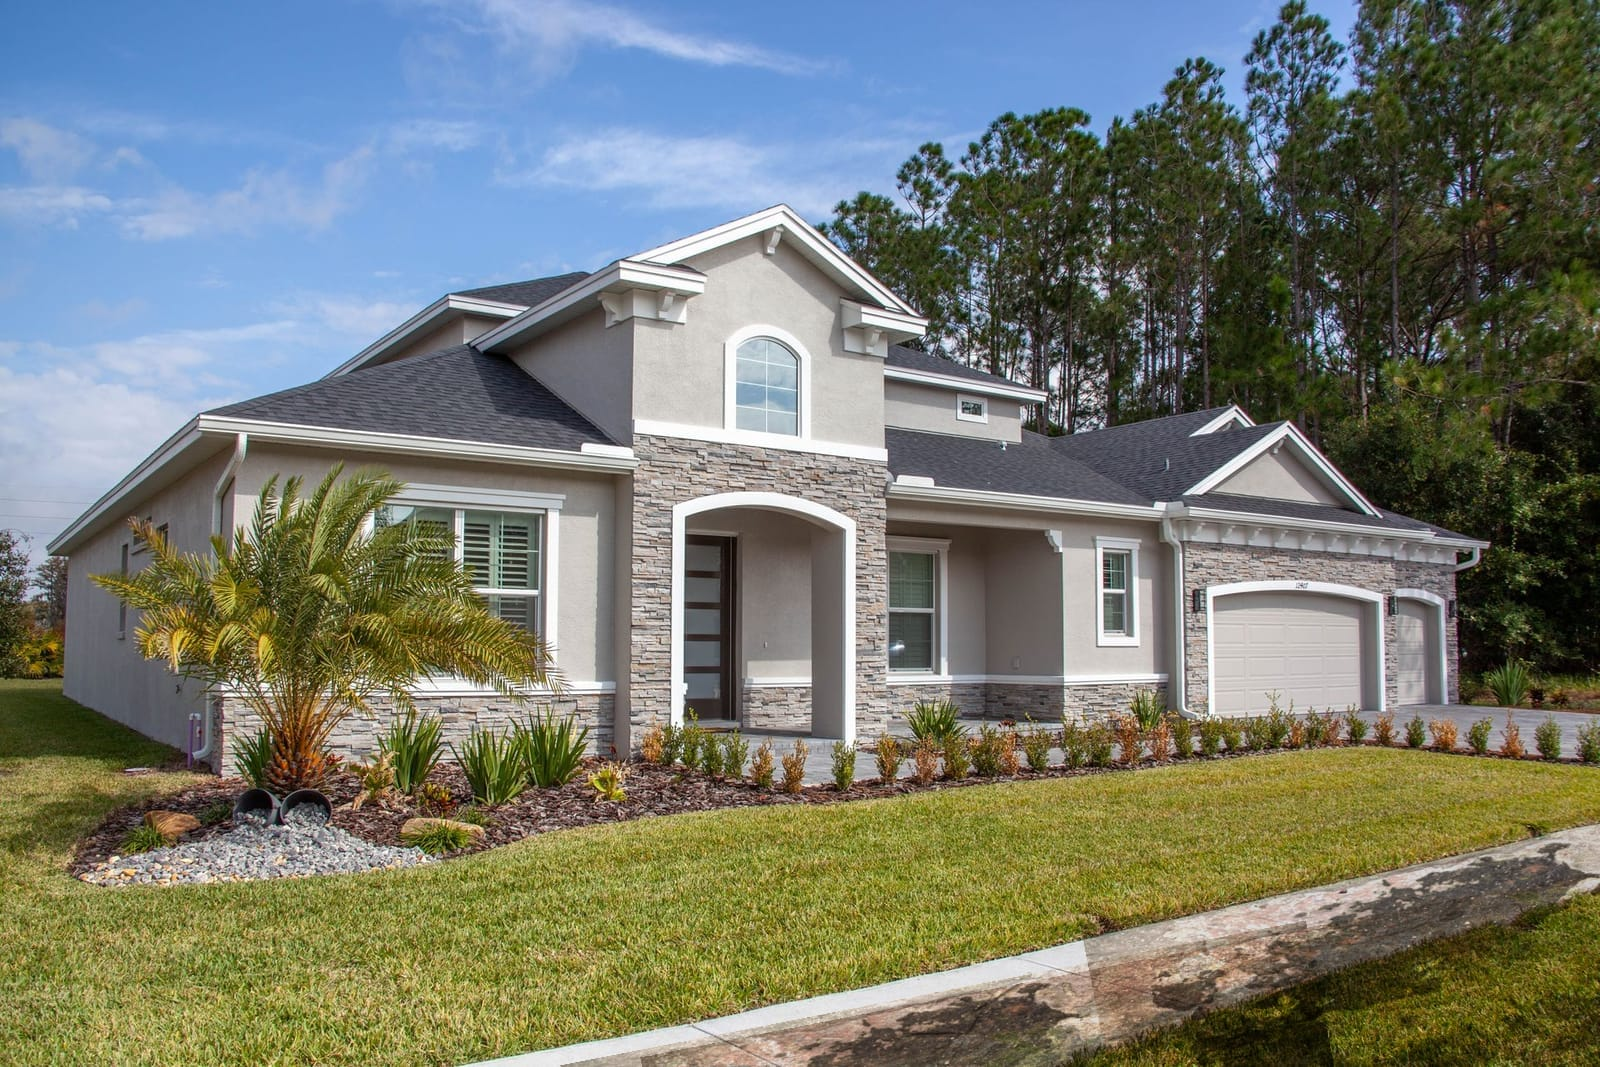
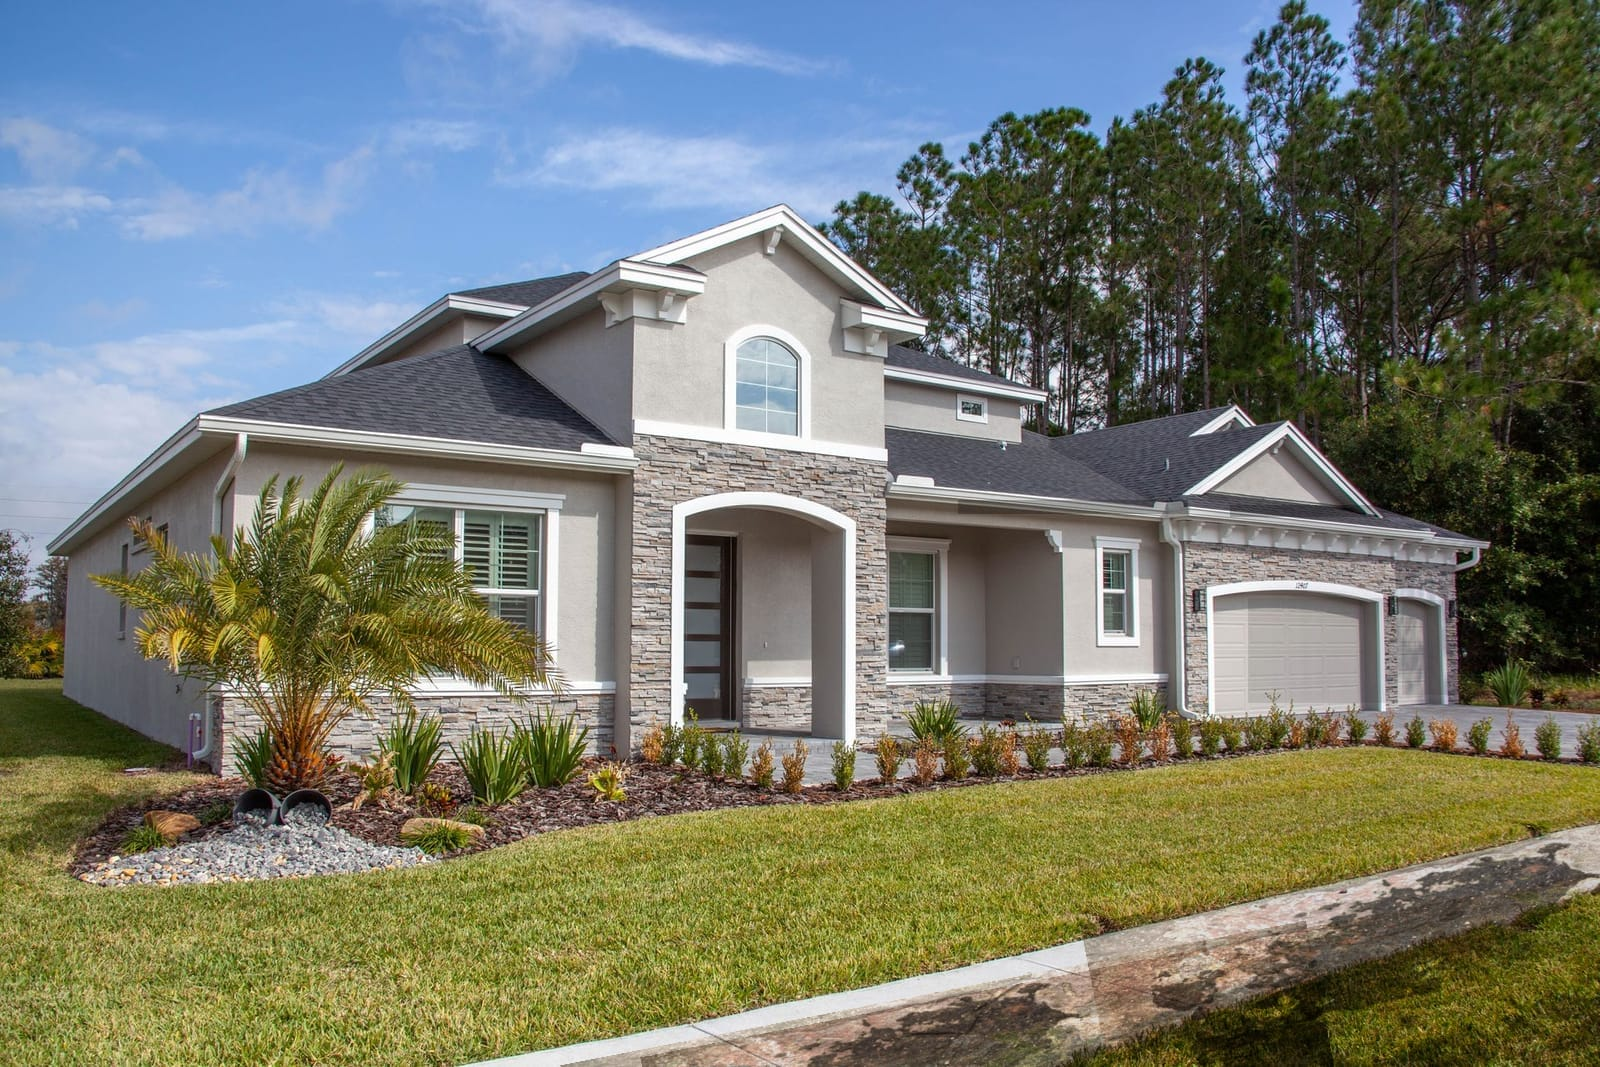
Queue: form confirm centering + copy, social strip back, grime on doors/gutters, hero fit, readability
- QuoteForm: scrolls confirmation into center on submit (mobile + desktop);
  new on-brand copy — 'Travis or a member of the team will reach out' with a
  direct call/text card for faster service
- Restored the bottom social scroll strip (marquee of Travis's clips linking
  out to TikTok/Instagram)
- Grime: light staining now also on garage doors + gutters/fascia (masked to
  those regions only), still sidewalk-focused
- Fleet copy wrapped in a readable scrim panel (was hard to see over truck)
- FieldTV label fixed — 'House exterior soft wash' (not driveway; the clip
  is house exterior cleaning)
- Hero fits exactly one viewport big and small (verified 812=812 mobile,
  910=910 desktop); tighter mobile spacing, smaller hero logo

diff --git a/src/components/SocialStrip.tsx b/src/components/SocialStrip.tsx
@@ -1,0 +1,111 @@
+import Image from "next/image";
+import { Reveal } from "@/components/Reveal";
+import SplashMark from "@/components/SplashMark";
+import { FIELD_CLIPS, SITE } from "@/lib/site";
+
+/* An endless film strip of Travis's real clips — every card is a doorway to
+   the socials. Pressure washing is the most-watchable trade on the internet. */
+
+function TikTokIcon({ className = "" }: { className?: string }) {
+  return (
+    <svg viewBox="0 0 24 24" fill="currentColor" className={className} aria-hidden="true">
+      <path d="M21 8.6a6.8 6.8 0 0 1-4.2-1.5v7.4a6.3 6.3 0 1 1-6.3-6.3c.3 0 .7 0 1 .1v3.3a3 3 0 1 0 2.1 2.9V1.9h3.2A4.6 4.6 0 0 0 21 5.4z" />
+    </svg>
+  );
+}
+function InstagramIcon({ className = "" }: { className?: string }) {
+  return (
+    <svg viewBox="0 0 24 24" fill="none" stroke="currentColor" strokeWidth="2" className={className} aria-hidden="true">
+      <rect x="3" y="3" width="18" height="18" rx="5" />
+      <circle cx="12" cy="12" r="4" />
+      <circle cx="17.2" cy="6.8" r="1.1" fill="currentColor" stroke="none" />
+    </svg>
+  );
+}
+
+// alternate TikTok / Instagram destinations across the cards
+const CARDS = FIELD_CLIPS.map((c, i) => ({
+  ...c,
+  href: i % 2 === 0 ? SITE.tiktok : SITE.instagram,
+  platform: (i % 2 === 0 ? "tiktok" : "instagram") as "tiktok" | "instagram",
+}));
+
+function Card({ c }: { c: (typeof CARDS)[number] }) {
+  return (
+    <a
+      href={c.href}
+      target="_blank"
+      rel="noopener noreferrer"
+      className="group relative block w-44 shrink-0 overflow-hidden rounded-2xl border border-hydro/15 md:w-52"
+      style={{ aspectRatio: "9 / 15" }}
+      aria-label={`${c.label} — watch on ${c.platform === "tiktok" ? "TikTok" : "Instagram"}`}
+    >
+      <Image src={c.poster} alt={c.label} fill className="object-cover transition-transform duration-700 ease-out group-hover:scale-[1.06]" sizes="208px" />
+      <div className="absolute inset-0 bg-gradient-to-b from-abyss/45 via-transparent to-abyss/80" />
+      <div className="absolute inset-x-0 top-0 flex items-center gap-2 p-3">
+        {c.platform === "tiktok" ? <TikTokIcon className="h-3.5 w-3.5 text-foam" /> : <InstagramIcon className="h-3.5 w-3.5 text-foam" />}
+        <span className="text-[0.6rem] font-semibold tracking-wider text-foam/90">@tmhomedetailz</span>
+      </div>
+      <span className="absolute left-1/2 top-1/2 grid h-11 w-11 -translate-x-1/2 -translate-y-1/2 place-items-center rounded-full bg-abyss/55 backdrop-blur-sm transition-all duration-300 group-hover:scale-110 group-hover:bg-hydro">
+        <svg width="15" height="15" viewBox="0 0 16 16" aria-hidden="true">
+          <path d="M5 3.2v9.6L13 8z" fill="currentColor" className="text-foam transition-colors group-hover:text-abyss" />
+        </svg>
+      </span>
+      <div className="absolute inset-x-0 bottom-0 p-3">
+        <span className="label mb-1.5 inline-block rounded-full bg-hydro/90 px-2 py-0.5 text-[0.48rem] text-abyss">{c.tag}</span>
+        <p className="display text-sm leading-tight text-foam">{c.label}</p>
+      </div>
+    </a>
+  );
+}
+
+export default function SocialStrip() {
+  return (
+    <section className="grain relative overflow-hidden bg-abyss py-20 md:py-28">
+      <div className="mx-auto mb-10 flex max-w-7xl flex-col gap-5 px-5 md:mb-12 md:flex-row md:items-end md:justify-between md:px-8">
+        <div>
+          <Reveal>
+            <p className="label mb-3 flex items-center gap-3 text-hydro">
+              <SplashMark className="h-3.5" />
+              @tmhomedetailz · everywhere
+            </p>
+          </Reveal>
+          <Reveal delay={0.08}>
+            <h2 className="display text-3xl text-foam md:text-5xl">
+              The most satisfying <br className="hidden sm:block" />
+              feed in <span className="text-hydro">Florida.</span>
+            </h2>
+          </Reveal>
+        </div>
+        <Reveal delay={0.15}>
+          <div className="flex flex-wrap gap-3">
+            <a href={SITE.tiktok} target="_blank" rel="noopener noreferrer" className="label sheen inline-flex items-center gap-2.5 rounded-full border border-spray/35 px-6 py-3.5 text-foam transition-colors hover:border-hydro hover:text-hydro">
+              <TikTokIcon className="h-4 w-4" /> TikTok
+            </a>
+            <a href={SITE.instagram} target="_blank" rel="noopener noreferrer" className="label sheen inline-flex items-center gap-2.5 rounded-full border border-spray/35 px-6 py-3.5 text-foam transition-colors hover:border-hydro hover:text-hydro">
+              <InstagramIcon className="h-4 w-4" /> Instagram
+            </a>
+          </div>
+        </Reveal>
+      </div>
+
+      <Reveal>
+        <div className="marquee-hover relative overflow-hidden">
+          <div className="pointer-events-none absolute inset-y-0 left-0 z-10 w-16 bg-gradient-to-r from-abyss to-transparent md:w-32" />
+          <div className="pointer-events-none absolute inset-y-0 right-0 z-10 w-16 bg-gradient-to-l from-abyss to-transparent md:w-32" />
+          <div className="marquee-track flex w-max gap-4 pr-4 [animation-duration:48s] md:gap-5 md:pr-5">
+            {[...CARDS, ...CARDS, ...CARDS].map((c, i) => (
+              <Card key={`${c.id}-${i}`} c={c} />
+            ))}
+          </div>
+        </div>
+      </Reveal>
+
+      <Reveal delay={0.1}>
+        <p className="mt-9 text-center text-xs uppercase tracking-[0.2em] text-mist-dim">
+          Tap any clip to follow along — new transformations weekly
+        </p>
+      </Reveal>
+    </section>
+  );
+}

diff --git a/src/components/QuoteForm.tsx b/src/components/QuoteForm.tsx
@@ -1,6 +1,6 @@
 "use client";
 
-import { useState } from "react";
+import { useRef, useState } from "react";
 import { motion, AnimatePresence } from "framer-motion";
 import { SITE } from "@/lib/site";
 
@@ -50,6 +50,7 @@ export default function QuoteForm() {
   const [sent, setSent] = useState(false);
   const [property, setProperty] = useState("Residential");
   const [services, setServices] = useState<string[]>([]);
+  const wrapRef = useRef<HTMLDivElement>(null);
   const active = PROPERTY_TYPES.find((p) => p.key === property)!;
 
   const pickProperty = (key: string) => {
@@ -69,10 +70,14 @@ export default function QuoteForm() {
       `Free quote request — ${fd.get("name")}`
     )}&body=${body}`;
     setSent(true);
+    // bring the confirmation into view on any screen
+    requestAnimationFrame(() =>
+      wrapRef.current?.scrollIntoView({ behavior: "smooth", block: "center" })
+    );
   };
 
   return (
-    <div className="relative">
+    <div ref={wrapRef} className="relative scroll-mt-28">
       <AnimatePresence mode="wait">
         {sent ? (
           <motion.div
@@ -91,16 +96,31 @@ export default function QuoteForm() {
                 <path d="m4.5 12.5 5 5 10-11" stroke="#0a2338" strokeWidth="3" strokeLinecap="round" strokeLinejoin="round" />
               </svg>
             </motion.div>
-            <p className="display text-3xl text-ink">Request launched.</p>
+            <p className="display text-3xl text-ink">Thanks — we&apos;ve got it.</p>
             <p className="mt-3 max-w-sm text-sm leading-relaxed text-slate">
-              Your email app should be open with everything filled in — hit send and
-              we&apos;ll get back fast. Prefer to talk?{" "}
-              <a href={SITE.phoneHref} className="font-semibold text-brand underline underline-offset-4">
-                Call or text {SITE.phone}
-              </a>
-              .
+              Travis or a member of the team will reach out shortly with your custom
+              quote — usually the same day. Want it handled even faster?
             </p>
-            <button onClick={() => setSent(false)} className="label mt-8 text-slate transition-colors hover:text-brand">
+            <a
+              href={SITE.phoneHref}
+              className="mt-6 flex items-center gap-3 rounded-full border border-brand/25 py-3 pl-3 pr-6 transition-colors hover:border-hydro"
+            >
+              <span className="grid h-11 w-11 place-items-center rounded-full bg-hydro text-abyss">
+                <svg width="18" height="18" viewBox="0 0 24 24" fill="none" aria-hidden="true">
+                  <path
+                    d="M5 4h4l1.5 4.5-2 1.5a12 12 0 0 0 5.5 5.5l1.5-2L20 15v4a2 2 0 0 1-2 2A16 16 0 0 1 3 6a2 2 0 0 1 2-2Z"
+                    stroke="currentColor"
+                    strokeWidth="2"
+                    strokeLinejoin="round"
+                  />
+                </svg>
+              </span>
+              <span className="text-left leading-none">
+                <span className="block text-[0.58rem] font-bold uppercase tracking-[0.22em] text-slate">Call or text direct</span>
+                <span className="display mt-1 block text-lg text-ink">{SITE.phone}</span>
+              </span>
+            </a>
+            <button onClick={() => setSent(false)} className="label mt-6 text-slate transition-colors hover:text-brand">
               ← Back to the form
             </button>
           </motion.div>

diff --git a/src/components/Hero.tsx b/src/components/Hero.tsx
@@ -113,7 +113,7 @@ export default function Hero() {
       </div>
 
       {/* ---------- content ---------- */}
-      <div className="relative z-10 mx-auto flex w-full max-w-[90rem] flex-1 flex-col justify-center px-5 pb-24 pt-32 md:px-8 md:pb-16 md:pt-36">
+      <div className="relative z-10 mx-auto flex w-full max-w-[90rem] flex-1 flex-col justify-center px-5 pb-14 pt-24 md:px-8 md:pb-14 md:pt-28">
         <div className="md:max-w-[44%]">
           <motion.div
             initial={{ opacity: 0, y: 18 }}
@@ -126,7 +126,7 @@ export default function Hero() {
               width={220}
               height={220}
               priority
-              className="h-24 w-24 drop-shadow-[0_6px_24px_rgba(2,171,223,0.4)] md:h-32 md:w-32"
+              className="h-16 w-16 drop-shadow-[0_6px_24px_rgba(2,171,223,0.4)] sm:h-20 sm:w-20 md:h-32 md:w-32"
             />
           </motion.div>
 
@@ -134,7 +134,7 @@ export default function Hero() {
             initial={{ opacity: 0, y: 16 }}
             animate={{ opacity: 1, y: 0 }}
             transition={{ duration: 0.7, delay: 0.25 }}
-            className="label mb-6 mt-2 flex items-center gap-3 text-spray"
+            className="label mb-4 mt-2 flex items-center gap-3 text-spray md:mb-6"
           >
             <SplashMark className="h-3.5" />
             <span>
@@ -142,7 +142,7 @@ export default function Hero() {
             </span>
           </motion.p>
 
-          <h1 className="display text-[clamp(2.7rem,10.5vw,4rem)] md:text-[clamp(2.6rem,5vw,5rem)]">
+          <h1 className="display text-[clamp(2.3rem,9vw,3.6rem)] md:text-[clamp(2.6rem,5vw,5rem)]">
             <PowerWash text="THE DETAILZ" delay={0.5} duration={1.05} className="block" />
             <PowerWash text="MAKE THE" delay={1.15} duration={0.95} className="block" />
             <PowerWash text="DIFFERENCE." delay={1.8} duration={1.05} cleanClassName="text-hydro" className="block" />
@@ -152,7 +152,7 @@ export default function Hero() {
             initial={{ opacity: 0, y: 20 }}
             animate={{ opacity: 1, y: 0 }}
             transition={{ duration: 0.8, delay: 0.55 }}
-            className="mt-7 max-w-md text-base leading-relaxed text-mist md:text-lg"
+            className="mt-5 max-w-md text-sm leading-relaxed text-mist sm:text-base md:mt-7 md:text-lg"
           >
             Driveways, homes, storefronts, and whole fleets — washed hot, washed right, and photographed to prove it.
           </motion.p>
@@ -161,7 +161,7 @@ export default function Hero() {
             initial={{ opacity: 0, y: 20 }}
             animate={{ opacity: 1, y: 0 }}
             transition={{ duration: 0.8, delay: 0.7 }}
-            className="mt-9 flex flex-col items-stretch gap-4 md:flex-row md:flex-wrap md:items-center md:gap-5"
+            className="mt-7 flex flex-col items-stretch gap-3 md:mt-9 md:flex-row md:flex-wrap md:items-center md:gap-5"
           >
             <JetButton href="/contact">Get My Free Quote</JetButton>
             {/* full button on mobile, quiet link on desktop */}
@@ -186,7 +186,7 @@ export default function Hero() {
             initial={{ opacity: 0, y: 18 }}
             animate={{ opacity: 1, y: 0 }}
             transition={{ duration: 0.8, delay: 0.85 }}
-            className="mt-9 inline-flex items-center gap-3 rounded-full border border-foam/15 bg-abyss/40 py-2.5 pl-3.5 pr-5 backdrop-blur-sm transition-colors hover:border-hydro/50"
+            className="mt-6 inline-flex items-center gap-3 self-start rounded-full border border-foam/15 bg-abyss/40 py-2.5 pl-3.5 pr-5 backdrop-blur-sm transition-colors hover:border-hydro/50 md:mt-9"
           >
             <span className="flex gap-0.5" aria-hidden="true">
               {[...Array(5)].map((_, i) => (

diff --git a/src/app/page.tsx b/src/app/page.tsx
@@ -8,6 +8,7 @@ import BeforeAfter from "@/components/BeforeAfter";
 import Testimonial from "@/components/Testimonial";
 import AreaRipple from "@/components/AreaRipple";
 import FieldTV from "@/components/FieldTV";
+import SocialStrip from "@/components/SocialStrip";
 import CtaBand from "@/components/CtaBand";
 import { Reveal } from "@/components/Reveal";
 import JetButton from "@/components/JetButton";
@@ -122,6 +123,7 @@ export default function Home() {
       </section>
 
       <AreaRipple />
+      <SocialStrip />
       <CtaBand />
     </>
   );

diff --git a/src/components/FleetSection.tsx b/src/components/FleetSection.tsx
@@ -44,7 +44,7 @@ export default function FleetSection() {
 
           <div className="mx-auto mt-10 flex w-full max-w-7xl flex-col gap-8 px-5 md:flex-row md:items-end md:justify-between md:px-8">
             <Reveal delay={0.2} className="max-w-md">
-              <p className="text-base leading-relaxed text-foam/95 [text-shadow:0_1px_14px_rgba(4,18,31,0.9)] md:text-lg">
+              <p className="rounded-2xl border border-foam/10 bg-abyss/55 p-5 text-base leading-relaxed text-foam shadow-[0_16px_40px_-16px_rgba(4,18,31,0.8)] backdrop-blur-md md:text-lg">
                 Two-step chemistry, hand washing, and hot water — on your yard, on your
                 schedule. From a single box truck to the whole fleet, we keep your name
                 clean everywhere it drives.

diff --git a/src/lib/site.ts b/src/lib/site.ts
@@ -206,7 +206,7 @@ export const FIELD_CLIPS = [
     id: "driveway",
     src: "/videos/field-driveway.mp4",
     poster: "/images/field-driveway.jpg",
-    label: "Residential rig, driveway day",
+    label: "House exterior soft wash",
     tag: "Residential",
   },
   {